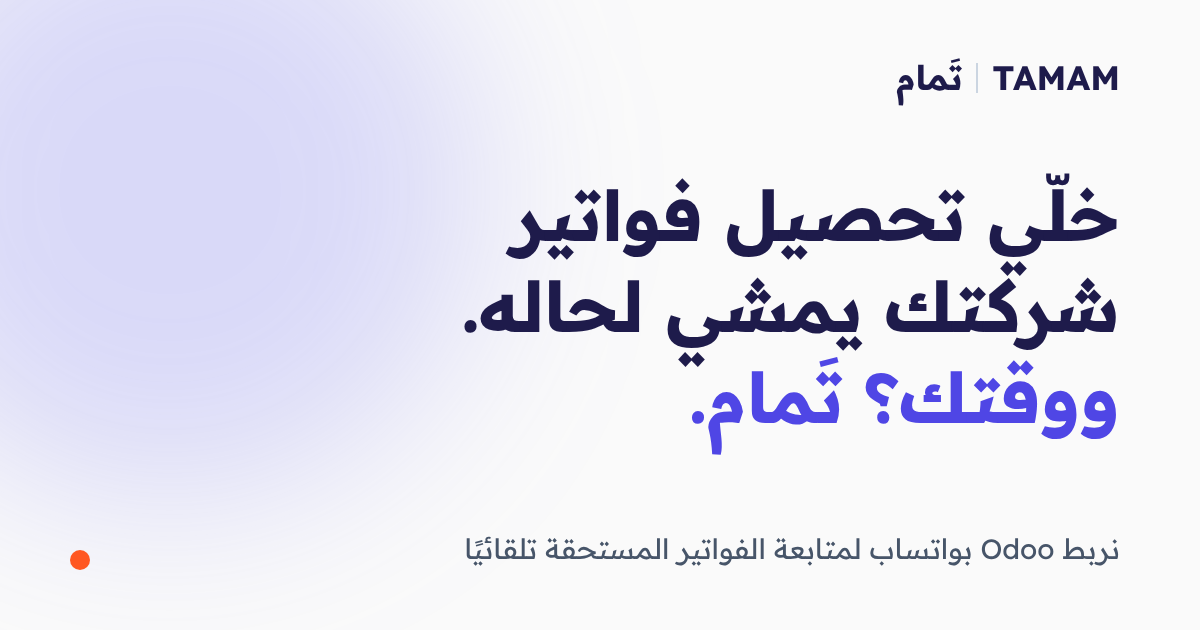
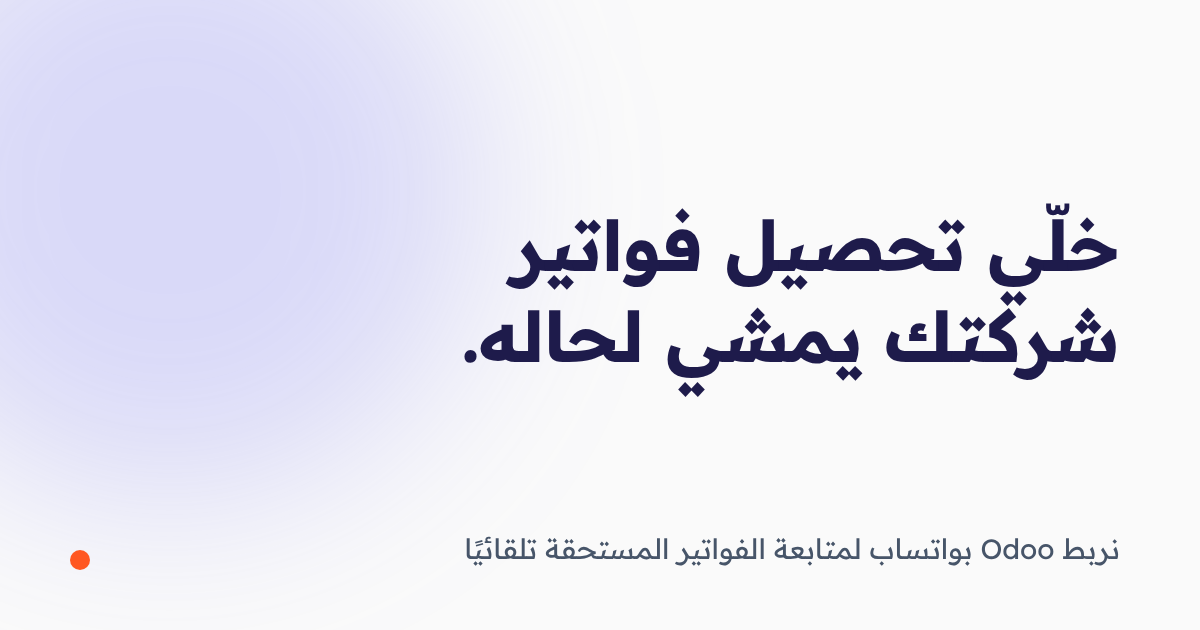
feat(finance): 200 USD / 7 days, 5-day try-before-you-pay strip, remove brand name (no company yet)

Changed region(s): [[0.37, 0.2714, 0.9558, 0.7238], [0.8325, 0.0905, 0.9558, 0.1508], [0.74, 0.0905, 0.8017, 0.1508]]

diff --git a/src/niches.ts b/src/niches.ts
@@ -25,6 +25,8 @@ export interface NicheContent {
   id: NicheId;
   path: string;
   label: string;
+  /** Hide the TAMAM brand everywhere on this page (for when there is no company yet). */
+  unbranded?: boolean;
   /** Internal note for the links page: who to send this niche to. */
   audience?: string;
   meta: { title: string; description: string; ogImage: string };
@@ -782,10 +784,11 @@ export const NICHES: Record<NicheId, NicheContent> = {
     id: 'finance',
     path: '/finance',
     label: 'شركات B2B: تحصيل الفواتير',
+    unbranded: true,
     audience:
       'ابعته لشركات التوزيع والتوريد والجملة وخدمات B2B اللي تبيع بالآجل وعندها فواتير متكررة. أنسب لمن يستخدم Odoo، وما يحتاج يستبدل نظامه المحاسبي.',
     meta: {
-      title: 'TAMAM | تَمام — أتمتة متابعة الفواتير والتحصيل (Odoo + واتساب)',
+      title: 'أتمتة متابعة الفواتير والتحصيل (Odoo + واتساب)',
       description:
         'نربط Odoo بواتساب لمتابعة الفواتير المستحقة تلقائيًا: تذكيرات للعملاء، متابعة المتأخرات، وتقارير للإدارة — بدون استبدال نظامك المحاسبي.',
       ogImage: '/og-finance.png',
@@ -811,7 +814,7 @@ export const NICHES: Record<NicheId, NicheContent> = {
     pain: {
       title: 'الفواتير المستحقة… تاخذ وقت فريقك وتأخّر التحصيل',
       sub: 'متابعة العملاء بالاتصال والرسائل يدويًا، وفواتير تتأخر بدون ما أحد ينتبه، ووعود دفع تنسى — تفاصيل صغيرة تأخّر التحصيل وتضغط على السيولة.',
-      closing: 'تحوّل هذي الخطوات المتكررة إلى نظام يمشي مع شركتك.',
+      closing: 'نحوّل هذي الخطوات المتكررة إلى نظام يمشي مع شركتك.',
       items: {
         'endless-messages': {
           title: 'تذكير يدوي بكل فاتورة',
@@ -833,7 +836,7 @@ export const NICHES: Record<NicheId, NicheContent> = {
     packages: {},
     packagesHeader: {
       title: 'عرض واحد لتحصيل فواتيرك بدون متابعة يدوية',
-      sub: 'نربط النظام مع Odoo الموجود عندك، وما نطلب منك تستبدل نظامك المحاسبي.',
+      sub: 'نربط النظام مع Odoo الموجود عندك بدون ما تستبدل نظامك المحاسبي. وتجرّبه ٥ أيام قبل ما تدفع.',
     },
     packagesList: [
       {
@@ -854,10 +857,14 @@ export const NICHES: Record<NicheId, NicheContent> = {
         ],
         ctaLabel: 'كلّمنا عن شغلك',
         value: 'متابعة تحصيل مستمرة بدون جهد يدوي من فريقك.',
-        price: '٥٠٠ دولار',
+        price: '٢٠٠ دولار',
         priceNote: 'رسوم إعداد لمرة وحدة، غير شامل رسوم رسائل واتساب',
-        duration: '٣ أسابيع',
+        duration: '٧ أيام',
         durationNote: 'من الاتفاق لين التشغيل',
+        trial: {
+          title: 'جرّبه قبل ما تدفع',
+          text: 'ما تدفع إلا بعد ٥ أيام تجربة. وإذا ما عجبك العمل، ما تدفع.',
+        },
       },
     ],
     work: {
@@ -884,9 +891,9 @@ export const NICHES: Record<NicheId, NicheContent> = {
       title: 'جاهز تخلّي تحصيل فواتيرك يمشي لحاله؟',
       sub: 'قل لنا كيف تتابع الفواتير المستحقة اليوم، ونساعدك تكتشف وين ممكن الأتمتة توفر وقت فريقك.',
     },
-    waMessage: 'هلا تَمام، عندي شركة وأبغى أكلمكم عن أتمتة متابعة الفواتير والتحصيل.',
+    waMessage: 'هلا، عندي شركة وأبغى أكلمكم عن أتمتة متابعة الفواتير والتحصيل.',
     outreach:
-      'هلا {contact}، أنا يحيى من تَمام. جهّزت لكم صفحة توضح كيف نربط Odoo بواتساب ونخلّي متابعة الفواتير المستحقة والتحصيل تمشي تلقائيًا بدون ما تستبدلون نظامكم المحاسبي. تفضلوا الرابط: {url}',
+      'هلا {contact}، أنا يحيى. جهّزت لكم صفحة توضح كيف نربط Odoo بواتساب ونخلّي متابعة الفواتير المستحقة والتحصيل تمشي تلقائيًا بدون ما تستبدلون نظامكم المحاسبي. تفضلوا الرابط: {url}',
   },
 };
 

diff --git a/src/components/DarkFooter.tsx b/src/components/DarkFooter.tsx
@@ -21,6 +21,7 @@ export const DarkFooter: React.FC<DarkFooterProps> = ({
   onOpenPrivacy,
 }) => {
   const currentYear = new Date().getFullYear();
+  const unbranded = !!getNiche().unbranded;
 
   const handleScrollToTop = () => {
     window.scrollTo({ top: 0, behavior: 'smooth' });
@@ -40,16 +41,18 @@ export const DarkFooter: React.FC<DarkFooterProps> = ({
           {/* Brand Info & Textual Slogan */}
           <div className="md:col-span-6 flex flex-col items-start">
             {/* Logo Emblem & Wordmark */}
-            <div className="flex items-center gap-3 mb-4">
-              <div className="w-9 h-9 rounded-xl bg-gradient-to-tr from-indigo-600 via-indigo-500 to-blue-500 flex items-center justify-center text-white font-bold text-lg shadow-md shadow-indigo-500/20">
-                <span>ت</span>
+            {!unbranded && (
+              <div className="flex items-center gap-3 mb-4">
+                <div className="w-9 h-9 rounded-xl bg-gradient-to-tr from-indigo-600 via-indigo-500 to-blue-500 flex items-center justify-center text-white font-bold text-lg shadow-md shadow-indigo-500/20">
+                  <span>ت</span>
+                </div>
+                <div className="flex items-center gap-2">
+                  <span className="font-heading font-black text-xl text-white tracking-tight">TAMAM</span>
+                  <span className="text-slate-600">|</span>
+                  <span className="font-heading font-bold text-lg text-slate-300">تَمام</span>
+                </div>
               </div>
-              <div className="flex items-center gap-2">
-                <span className="font-heading font-black text-xl text-white tracking-tight">TAMAM</span>
-                <span className="text-slate-600">|</span>
-                <span className="font-heading font-bold text-lg text-slate-300">تَمام</span>
-              </div>
-            </div>
+            )}
 
             {/* Exact Requested Brand Textual Slogan */}
             <p className="font-heading font-bold text-lg sm:text-xl text-white mb-3">
@@ -146,7 +149,7 @@ export const DarkFooter: React.FC<DarkFooterProps> = ({
         {/* Bottom Bar: Copyright & Back to Top */}
         <div className="pt-8 flex flex-col sm:flex-row items-center justify-between gap-4 text-xs text-slate-400">
           <div className="flex items-center gap-2 text-center sm:text-right">
-            <span>© {currentYear} TAMAM | تَمام — أتمتة ذكية للشركات. جميع الحقوق محفوظة.</span>
+            {!unbranded && <span>© {currentYear} TAMAM | تَمام — أتمتة ذكية للشركات. جميع الحقوق محفوظة.</span>}
           </div>
 
           <div className="flex items-center gap-5">

diff --git a/src/components/HeroSection.tsx b/src/components/HeroSection.tsx
@@ -19,9 +19,11 @@ export const HeroSection: React.FC<HeroSectionProps> = ({ onOpenInquiry, onOpenS
             <span className="hero-rise block text-balance text-indigo-950" style={{ animationDelay: '80ms' }}>
               {niche.hero.line1}
             </span>
-            <span className="hero-rise block text-indigo-600" style={{ animationDelay: '320ms' }}>
-              ووقتك؟ تَمام.
-            </span>
+            {!niche.unbranded && (
+              <span className="hero-rise block text-indigo-600" style={{ animationDelay: '320ms' }}>
+                ووقتك؟ تَمام.
+              </span>
+            )}
           </h1>
 
           <p
@@ -49,7 +51,7 @@ export const HeroSection: React.FC<HeroSectionProps> = ({ onOpenInquiry, onOpenS
               onClick={onOpenSolutions}
               className="group flex cursor-pointer items-center justify-center gap-1.5 rounded-lg px-3 py-2 text-base font-medium text-slate-700 underline decoration-slate-300 underline-offset-8 transition-colors hover:text-slate-950 hover:decoration-slate-900 focus:outline-none focus-visible:ring-2 focus-visible:ring-indigo-500"
             >
-              <span>اكتشف حلول TAMAM</span>
+              <span>{niche.unbranded ? 'اكتشف الحلول' : 'اكتشف حلول TAMAM'}</span>
               <ArrowUpRight className="h-4 w-4 text-slate-400 group-hover:text-slate-900" />
             </button>
           </div>
@@ -64,6 +66,7 @@ export const HeroSection: React.FC<HeroSectionProps> = ({ onOpenInquiry, onOpenS
             messages={niche.chat.messages}
             bookedTitle={niche.chat.bookedTitle}
             bookedSub={niche.chat.bookedSub}
+            agentTag={niche.unbranded ? 'رد تلقائي' : undefined}
           />
           <p className="mt-5 text-center text-xs text-slate-400">
             مثال توضيحي لمحادثة بعد الأتمتة

diff --git a/src/components/AutomationChatDemo.tsx b/src/components/AutomationChatDemo.tsx
@@ -51,6 +51,8 @@ export interface AutomationChatDemoProps {
   autoScale?: boolean;
   bookedTitle?: string;
   bookedSub?: string;
+  /** Small label above the first automated reply. */
+  agentTag?: string;
 }
 
 export const AutomationChatDemo: React.FC<AutomationChatDemoProps> = ({
@@ -61,6 +63,7 @@ export const AutomationChatDemo: React.FC<AutomationChatDemoProps> = ({
   autoScale = true,
   bookedTitle = 'تم حجز الموعد',
   bookedSub = 'وفريقك ما تدخّل',
+  agentTag = 'رد تلقائي من TAMAM',
 }) => {
   const scale = usePhoneScale(autoScale);
   const [visible, setVisible] = useState(0);
@@ -160,7 +163,7 @@ export const AutomationChatDemo: React.FC<AutomationChatDemoProps> = ({
         dir="ltr"
         className="relative h-[640px] rounded-[3.1rem] bg-gradient-to-b from-[#5b5b61] via-[#232327] to-[#4a4a50] p-[2.5px] shadow-[0_60px_100px_-30px_rgba(30,27,75,0.7),0_30px_60px_-20px_rgba(0,0,0,0.35)]"
         role="img"
-        aria-label={`مثال على محادثة واتساب يردّ فيها وكيل تمام تلقائيًا على عميل ${contactName}`}
+        aria-label={`مثال على محادثة واتساب يردّ فيها وكيل ذكي تلقائيًا على عميل ${contactName}`}
       >
         {/* Side buttons */}
         <span className="absolute -left-[3px] top-[104px] h-7 w-[3px] rounded-l-sm bg-[#3a3a40]" aria-hidden="true" />
@@ -227,7 +230,7 @@ export const AutomationChatDemo: React.FC<AutomationChatDemoProps> = ({
                     {isFirstAgent && (
                       <p className="mb-0.5 flex items-center gap-1 text-[10.5px] font-semibold text-indigo-300">
                         <Zap className="h-3 w-3" />
-                        رد تلقائي من TAMAM
+                        {agentTag}
                       </p>
                     )}
                     {m.text}

diff --git a/src/components/Navbar.tsx b/src/components/Navbar.tsx
@@ -1,5 +1,6 @@
 import React, { useState } from 'react';
 import { Menu, X, Sparkles, ArrowLeft } from 'lucide-react';
+import { getNiche } from '../niches';
 
 interface NavbarProps {
   onOpenSolutions: () => void;
@@ -14,6 +15,7 @@ export const Navbar: React.FC<NavbarProps> = ({
   onOpenPackages,
   onOpenInquiry,
 }) => {
+  const unbranded = !!getNiche().unbranded;
   const [mobileMenuOpen, setMobileMenuOpen] = useState(false);
 
   return (
@@ -44,16 +46,20 @@ export const Navbar: React.FC<NavbarProps> = ({
           </button>
         </nav>
 
-        {/* Centered Brand Logo */}
-        <div className="flex items-center gap-2.5">
-          <div className="flex flex-col text-right">
-            <div className="flex items-center gap-1.5">
-              <span className="font-heading text-xl font-bold tracking-tight text-slate-950">TAMAM</span>
-              <span className="text-slate-300 text-sm font-light">|</span>
-              <span className="font-heading text-lg font-bold text-indigo-950">تَمام</span>
+        {/* Centered Brand Logo (hidden while there is no company name) */}
+        {unbranded ? (
+          <div />
+        ) : (
+          <div className="flex items-center gap-2.5">
+            <div className="flex flex-col text-right">
+              <div className="flex items-center gap-1.5">
+                <span className="font-heading text-xl font-bold tracking-tight text-slate-950">TAMAM</span>
+                <span className="text-slate-300 text-sm font-light">|</span>
+                <span className="font-heading text-lg font-bold text-indigo-950">تَمام</span>
+              </div>
             </div>
           </div>
-        </div>
+        )}
 
         {/* Desktop Contact CTA Link */}
         <div className="hidden md:flex items-center">

diff --git a/src/components/PackagesSection.tsx b/src/components/PackagesSection.tsx
@@ -1,7 +1,7 @@
 import React from 'react';
 import {
   Database, CalendarClock, Cpu, Check, ArrowLeft, HelpCircle, Clock,
-  PackageCheck, ShoppingCart, Truck, Receipt, Boxes, Banknote,
+  PackageCheck, ShoppingCart, Truck, Receipt, Boxes, Banknote, ShieldCheck,
 } from 'lucide-react';
 import { TAMAM_PACKAGES, type PackageItem } from '../utils/automation-state';
 import { ScrollReveal } from './ScrollReveal';
@@ -154,6 +154,17 @@ export const PackagesSection: React.FC<PackagesSectionProps> = ({
                       <span className="block mt-1 text-[11px] text-slate-500 leading-snug">{pkg.durationNote}</span>
                     </div>
                   </div>
+
+                  {/* Try before you pay */}
+                  {pkg.trial && (
+                    <div className="mb-5 flex items-start gap-3 rounded-2xl border border-emerald-200 bg-emerald-50/70 p-3.5">
+                      <ShieldCheck className="mt-0.5 h-5 w-5 shrink-0 text-emerald-600" />
+                      <div>
+                        <span className="block text-sm font-bold text-emerald-800">{pkg.trial.title}</span>
+                        <span className="mt-0.5 block text-xs leading-relaxed text-emerald-800/90">{pkg.trial.text}</span>
+                      </div>
+                    </div>
+                  )}
 
                   {/* Value */}
                   <div className="mb-6 p-3.5 rounded-2xl bg-indigo-50/60 border border-indigo-100/80">

diff --git a/src/components/InfoModals.tsx b/src/components/InfoModals.tsx
@@ -1,4 +1,5 @@
 import React from 'react';
+import { getNiche } from '../niches';
 import { X, CheckCircle2, ArrowLeft, Layers, ShieldCheck, Sparkles } from 'lucide-react';
 
 interface InfoModalProps {
@@ -29,7 +30,9 @@ export const InfoModal: React.FC<InfoModalProps> = ({
       >
         <div className="flex items-center justify-between p-6 pb-4 border-b border-slate-100">
           <h2 id="info-modal-title" className="text-xl sm:text-2xl font-heading font-bold text-slate-950">
-            {type === 'how-it-works' ? 'طريقة العمل مع تَمام' : 'باقات وحلول تَمام'}
+            {type === 'how-it-works'
+              ? (getNiche().unbranded ? 'طريقة العمل' : 'طريقة العمل مع تَمام')
+              : (getNiche().unbranded ? 'الباقات والحلول' : 'باقات وحلول تَمام')}
           </h2>
           <button
             type="button"

diff --git a/src/App.tsx b/src/App.tsx
@@ -99,7 +99,7 @@ export default function App() {
         <div className="flex flex-col md:flex-row items-center justify-between gap-4 border-t border-slate-200/60 pt-4 w-full">
           {/* Solutions Text Strip (Zero-Pill discipline: clean typographic metadata) */}
           <div className="flex flex-col sm:flex-row items-center gap-2 sm:gap-3 text-xs sm:text-sm text-slate-500 font-medium">
-            <span className="text-slate-400 font-normal">حلول تَمام الأساسية:</span>
+            <span className="text-slate-400 font-normal">{niche.unbranded ? 'الحلول الأساسية:' : 'حلول تَمام الأساسية:'}</span>
             <div className="flex flex-wrap items-center justify-center gap-x-2.5 gap-y-1 text-slate-700">
               {RIBBON_SOLUTIONS.map((solutionId, i) => (
                 <React.Fragment key={solutionId}>

diff --git a/src/components/PainPointsSection.tsx b/src/components/PainPointsSection.tsx
@@ -112,7 +112,12 @@ export const PainPointsSection: React.FC<PainPointsSectionProps> = ({ onLearnMor
           <div className="inline-flex items-center gap-2.5 px-5 py-3 rounded-2xl bg-indigo-50/70 border border-indigo-100/90 shadow-xs text-sm sm:text-base text-slate-800 font-medium transition-transform hover:scale-105">
             <Sparkles className="w-4 h-4 text-indigo-600 shrink-0" />
             <span>
-              <strong className="text-indigo-950 font-bold font-heading">TAMAM</strong> {niche.pain.closing}
+              {!niche.unbranded && (
+                <>
+                  <strong className="text-indigo-950 font-bold font-heading">TAMAM</strong>{' '}
+                </>
+              )}
+              {niche.pain.closing}
             </span>
           </div>
         </div>

diff --git a/src/components/SolutionsDrawer.tsx b/src/components/SolutionsDrawer.tsx
@@ -1,4 +1,5 @@
 import React from 'react';
+import { getNiche } from '../niches';
 import { X, MessageSquareText, TrendingUp, CalendarCheck, Cpu, ArrowLeft, CheckCircle2 } from 'lucide-react';
 import { TAMAM_SOLUTIONS } from '../utils/automation-state';
 
@@ -47,7 +48,7 @@ export const SolutionsDrawer: React.FC<SolutionsDrawerProps> = ({
               حلول أتمتة الأعمال
             </div>
             <h2 id="solutions-title" className="text-xl sm:text-2xl font-heading font-bold text-slate-950">
-              حلول TAMAM بالذكاء الاصطناعي
+              {getNiche().unbranded ? 'حلول بالذكاء الاصطناعي' : 'حلول TAMAM بالذكاء الاصطناعي'}
             </h2>
           </div>
           <button

diff --git a/src/utils/automation-state.ts b/src/utils/automation-state.ts
@@ -94,6 +94,8 @@ export interface PackageItem {
   name: string;
   promise: string;
   features: string[];
+  /** Optional "try before you pay" strip shown on the card. */
+  trial?: { title: string; text: string };
   /** Overrides the default "ما تشمله الباقة:" label above the list. */
   featuresTitle?: string;
   ctaLabel: string;
